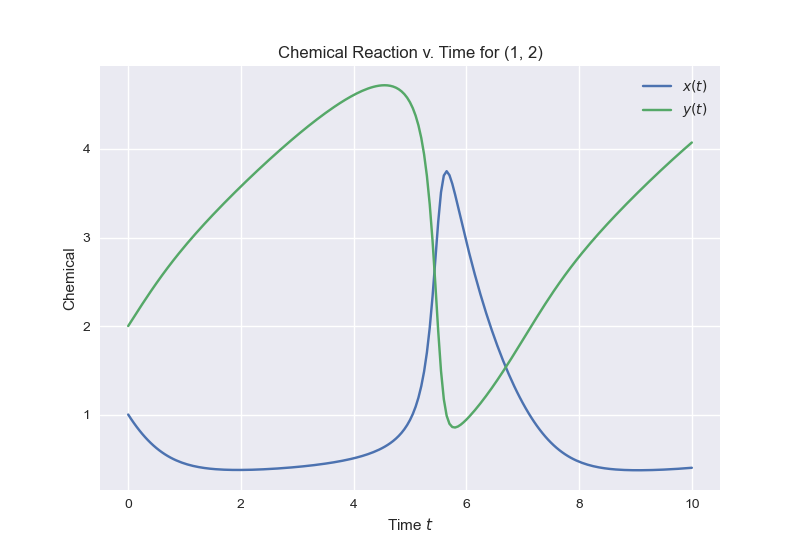
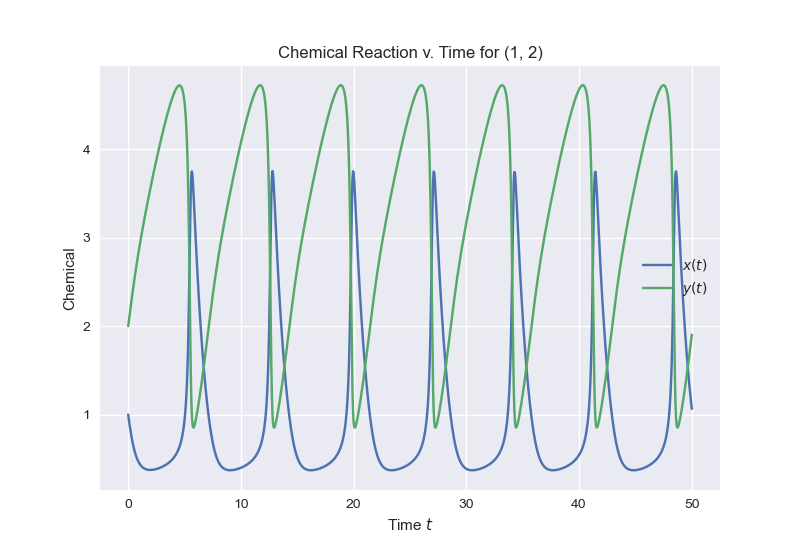
Attempt 2

diff --git a/acms-40730/hw-06/hw6_pr5.py b/acms-40730/hw-06/hw6_pr5.py
@@ -13,11 +13,12 @@ import numpy as np
 # ---------- Parameters
 plt.style.use("seaborn")
 
-tmax = 10
+tmax = 50 # More time for better oscillation patterns in time graphs
+nlim = 10 # Used to keep solutions and phase plane viewable
 ics = [(1,2), (5,1), (0.5,5), (3,5), (1,3.5), (6,4), (4,8)]
 
 # For vector field
-points = np.linspace(0, tmax, 31)
+points = np.linspace(0, nlim, 31)
 xp, yp = np.meshgrid(points, points)
 
 
@@ -76,8 +77,8 @@ for ic in ics:
 ## ODE system
 plt.figure(1)
 plt.axis("square")
-plt.xlim((0, tmax))
-plt.ylim((0, tmax))
+plt.xlim((0, nlim))
+plt.ylim((0, nlim))
 plt.xlabel(r"$\frac{dx}{dt}$")
 plt.ylabel(r"$\frac{dy}{dt}$")
 plt.title("Phase Plane of ODEs")
